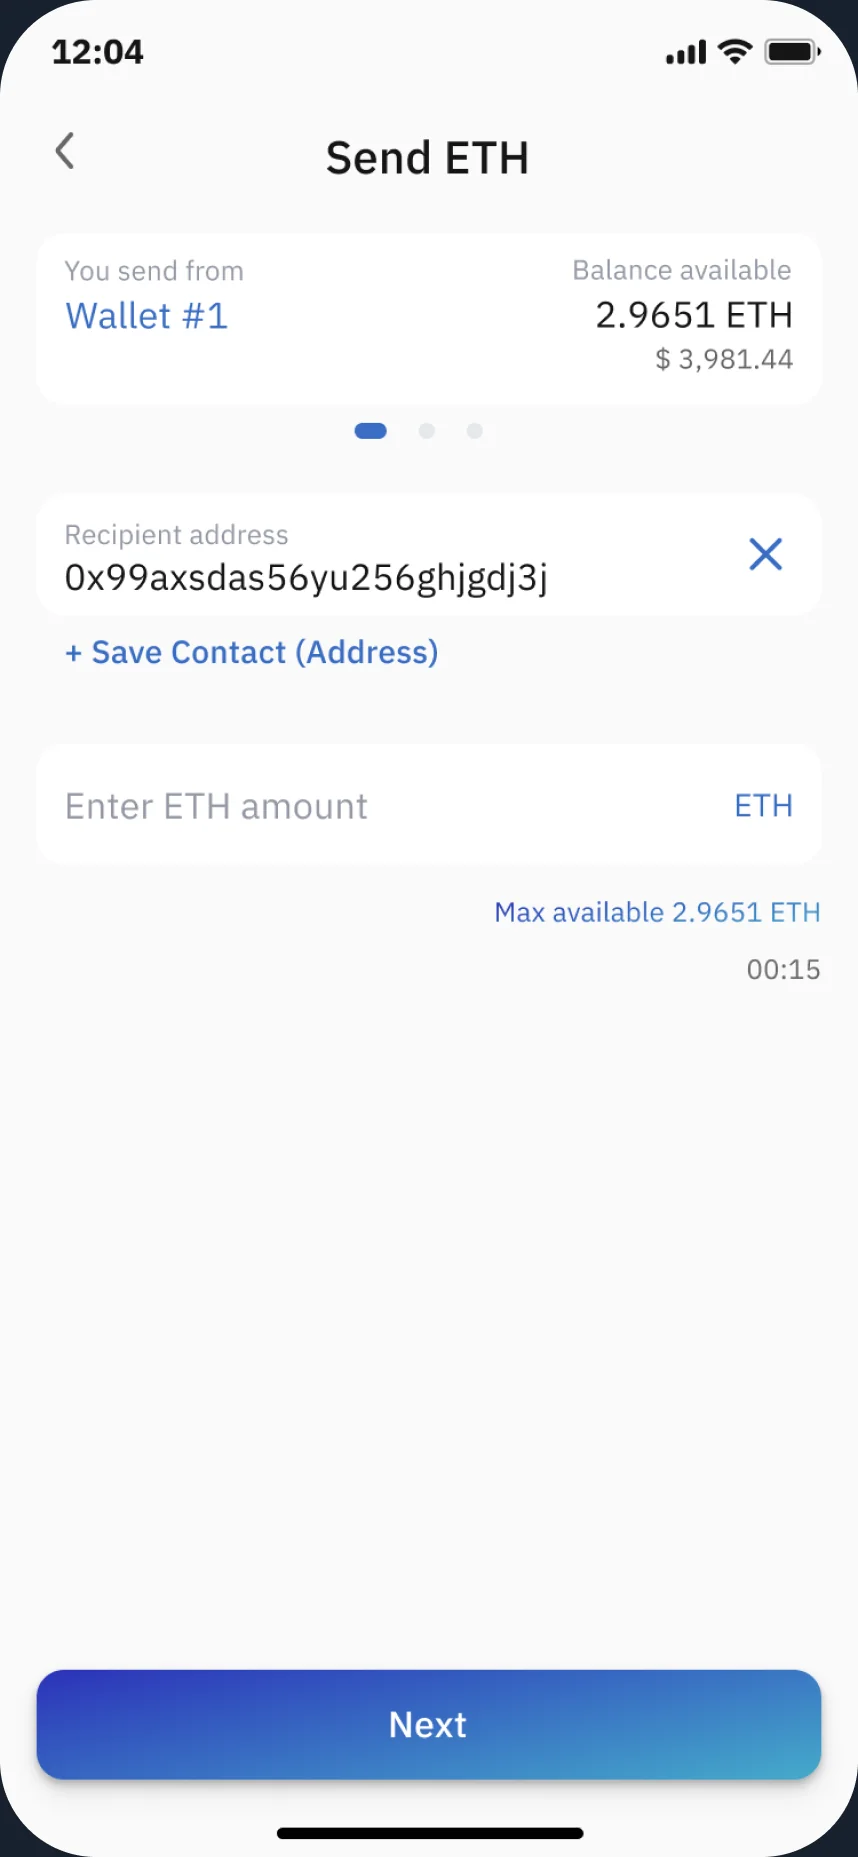
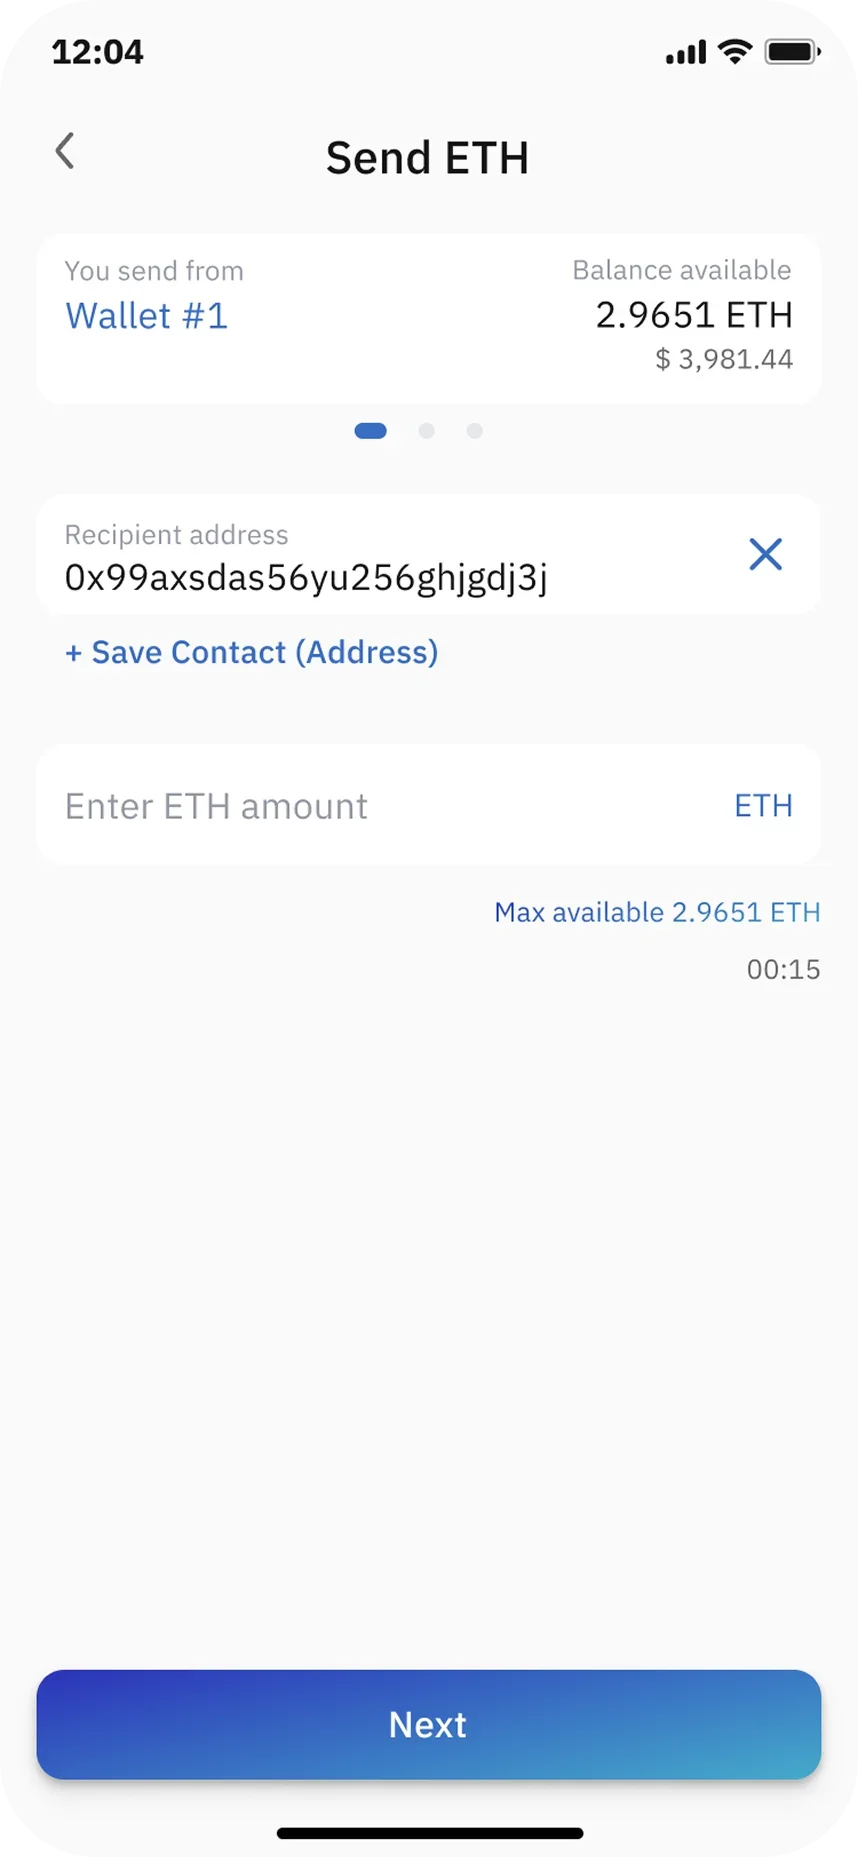
Новые картинки кейсов c1 и c2 на главной
Обе взяты из свежего экспорта. c1 вписана в 3000px по длинной стороне,
пропорции 4320x2913 сохранены (3000x2023). Атрибуты width/height обновлены
под реальные размеры, иначе браузер считал бы aspect-ratio по старым и
сплющивал картинку. В CSS добавлен height:auto как страховка.
Превью для соцсетей c1.png пересобрано из той же картинки.

diff --git a/assets/main.css b/assets/main.css
@@ -91,7 +91,8 @@ section{padding:clamp(28px,4vw,60px) 0}
 .cta::before{content:""; width:9px; height:9px; border-radius:50%; background:var(--lime-ink)}
 .case:hover .cta{filter:brightness(1.05)}
 .case .media{position:relative; display:grid; place-items:center; padding:clamp(20px,2.4vw,34px); min-height:340px}
-.case .media img{border-radius:clamp(14px,1.8vw,32px); display:block}
+/* height:auto — картинка тянется только по ширине, пропорции не ломаются */
+.case .media img{border-radius:clamp(14px,1.8vw,32px); display:block; height:auto}
 .case.c-crypto .media img{width:min(775px,100%)}
 .case.c-wallet .media img{width:min(286px,72%)}
 .case .badge-co{position:absolute; left:clamp(20px,2.4vw,34px); top:clamp(20px,2.4vw,34px);

diff --git a/index.html b/index.html
@@ -93,7 +93,7 @@
         </div>
         <div class="media">
           <span class="badge-co">Marketplace</span>
-          <img src="/assets/img/c1.webp" width="2325" height="1560" alt="CryptoMarketplace — главная страница" loading="lazy" decoding="async">
+          <img src="/assets/img/c1.webp" width="3000" height="2023" alt="CryptoMarketplace — главная страница" loading="lazy" decoding="async">
         </div>
       </a>
 

diff --git a/japanstat/index.html b/japanstat/index.html
@@ -95,7 +95,7 @@
         </div>
         <div class="media">
           <span class="badge-co">Marketplace</span>
-          <img src="/assets/img/c1.webp" width="2325" height="1560" alt="CryptoMarketplace — главная страница" loading="lazy" decoding="async">
+          <img src="/assets/img/c1.webp" width="3000" height="2023" alt="CryptoMarketplace — главная страница" loading="lazy" decoding="async">
         </div>
       </a>
 
